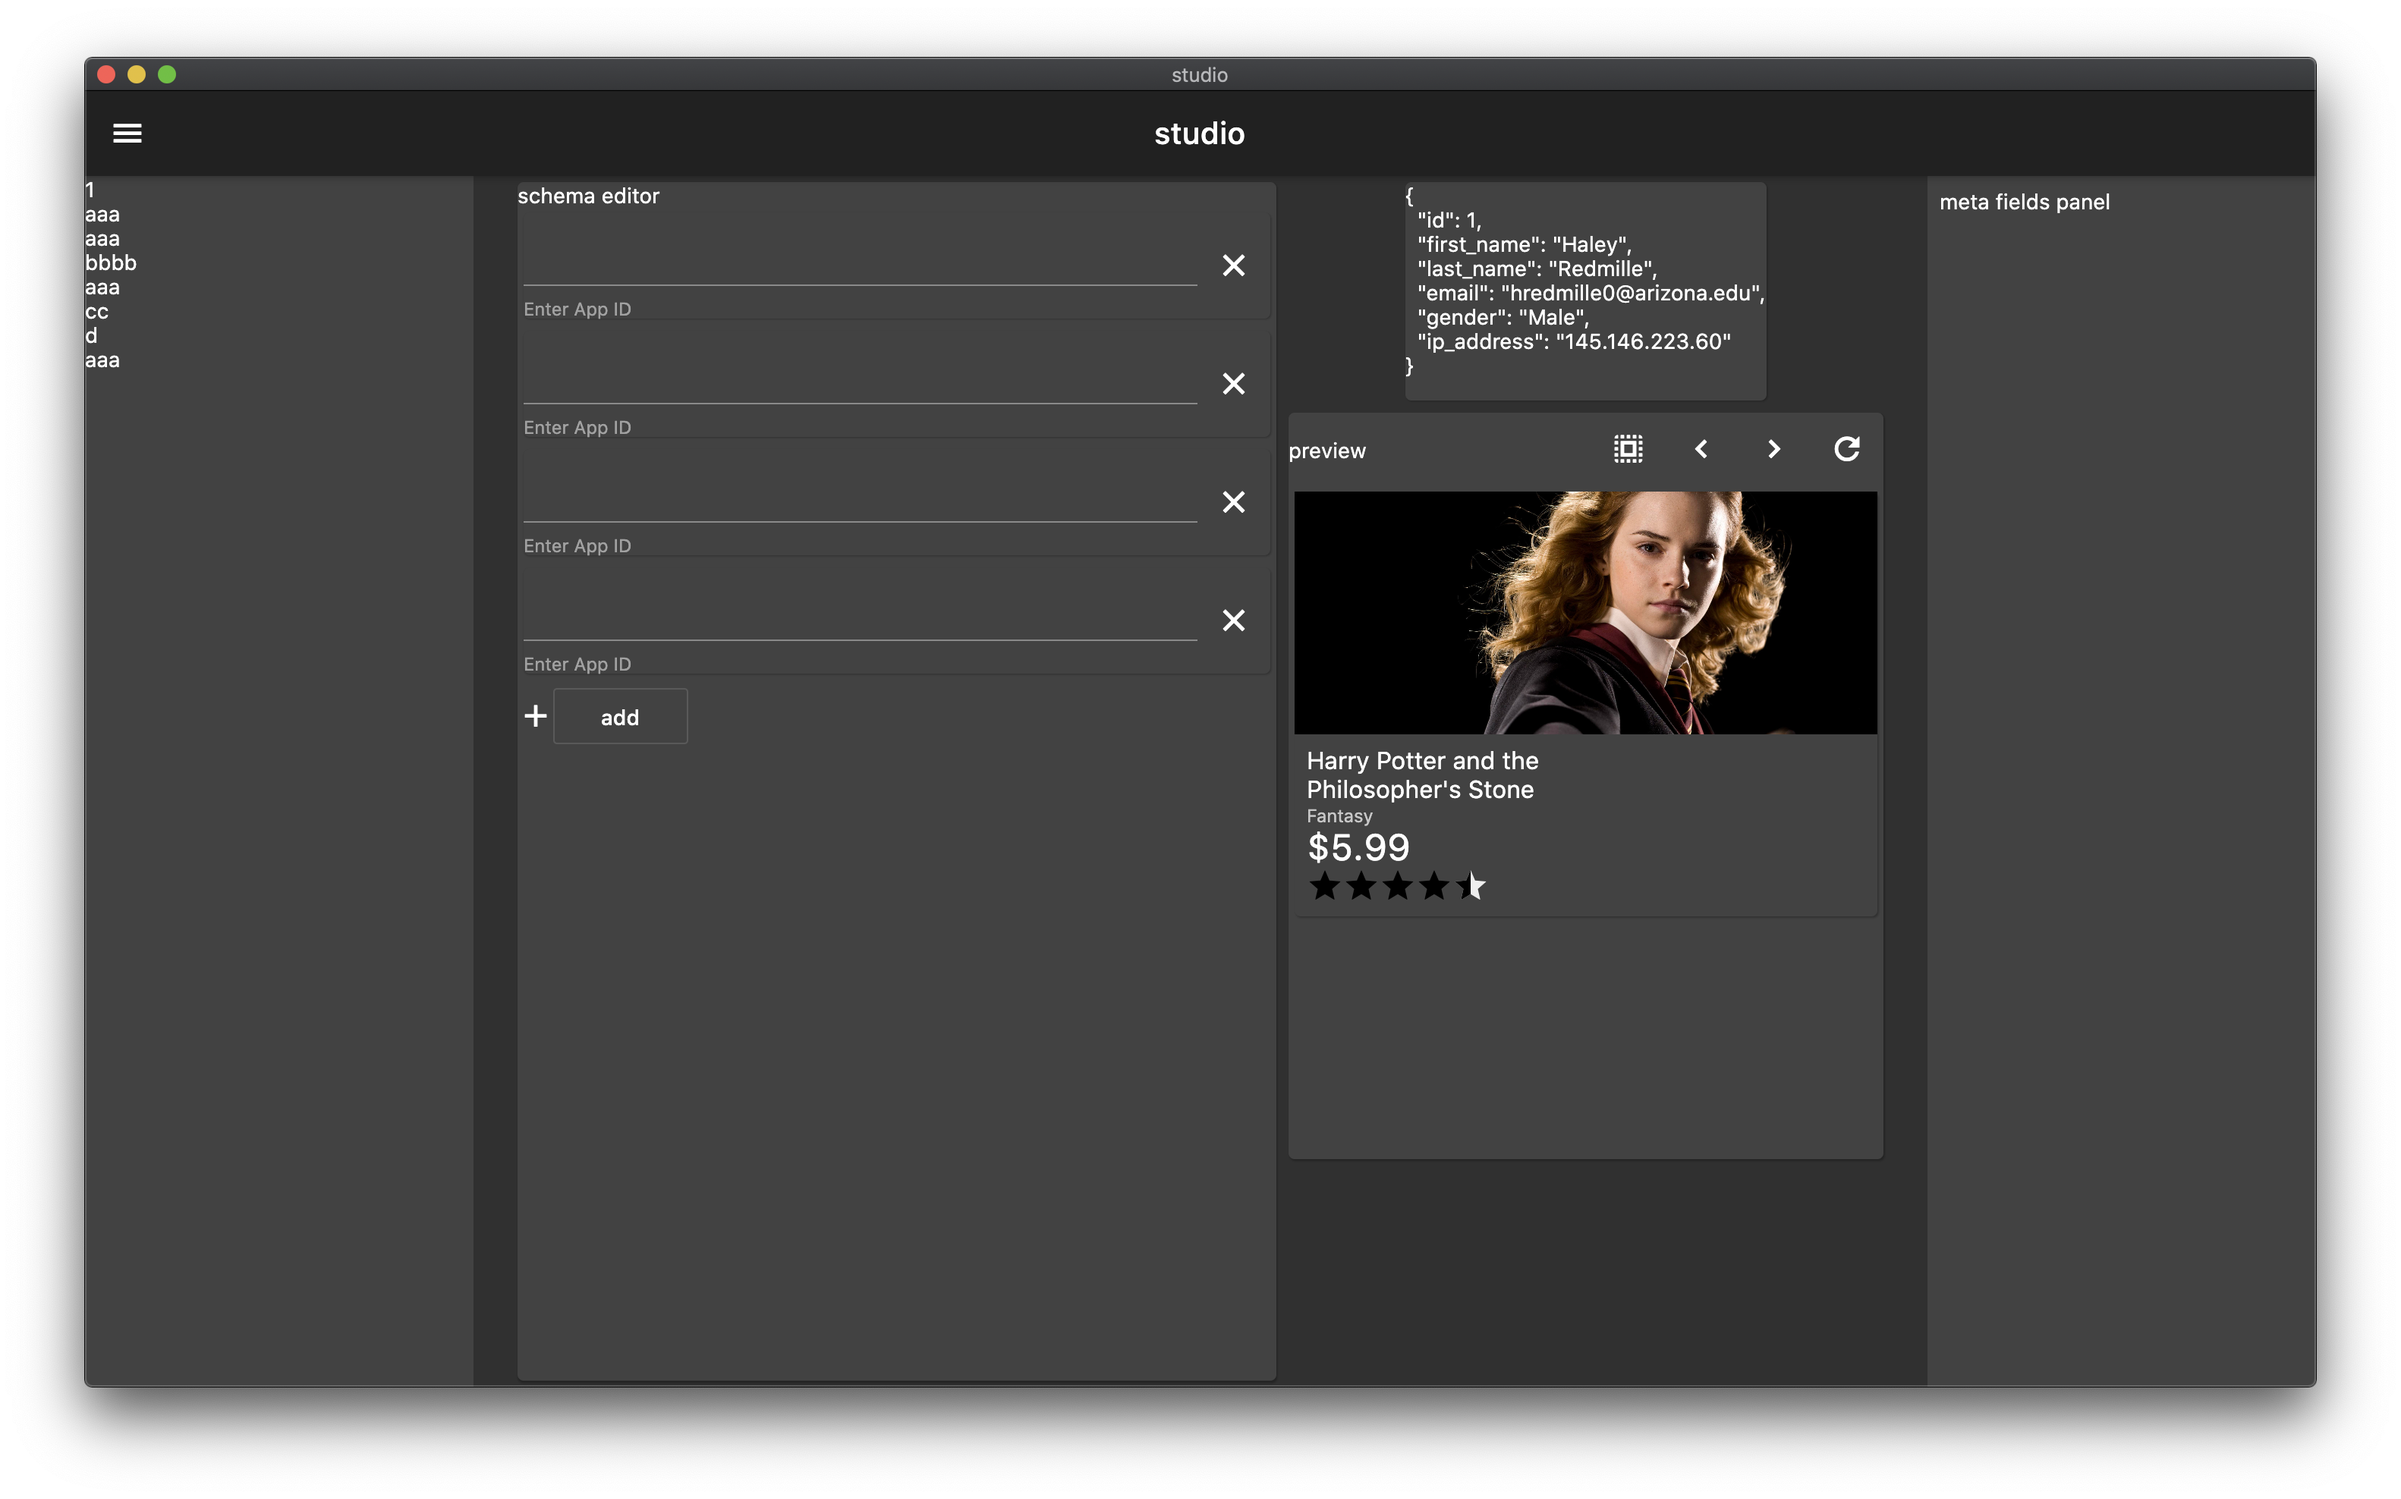
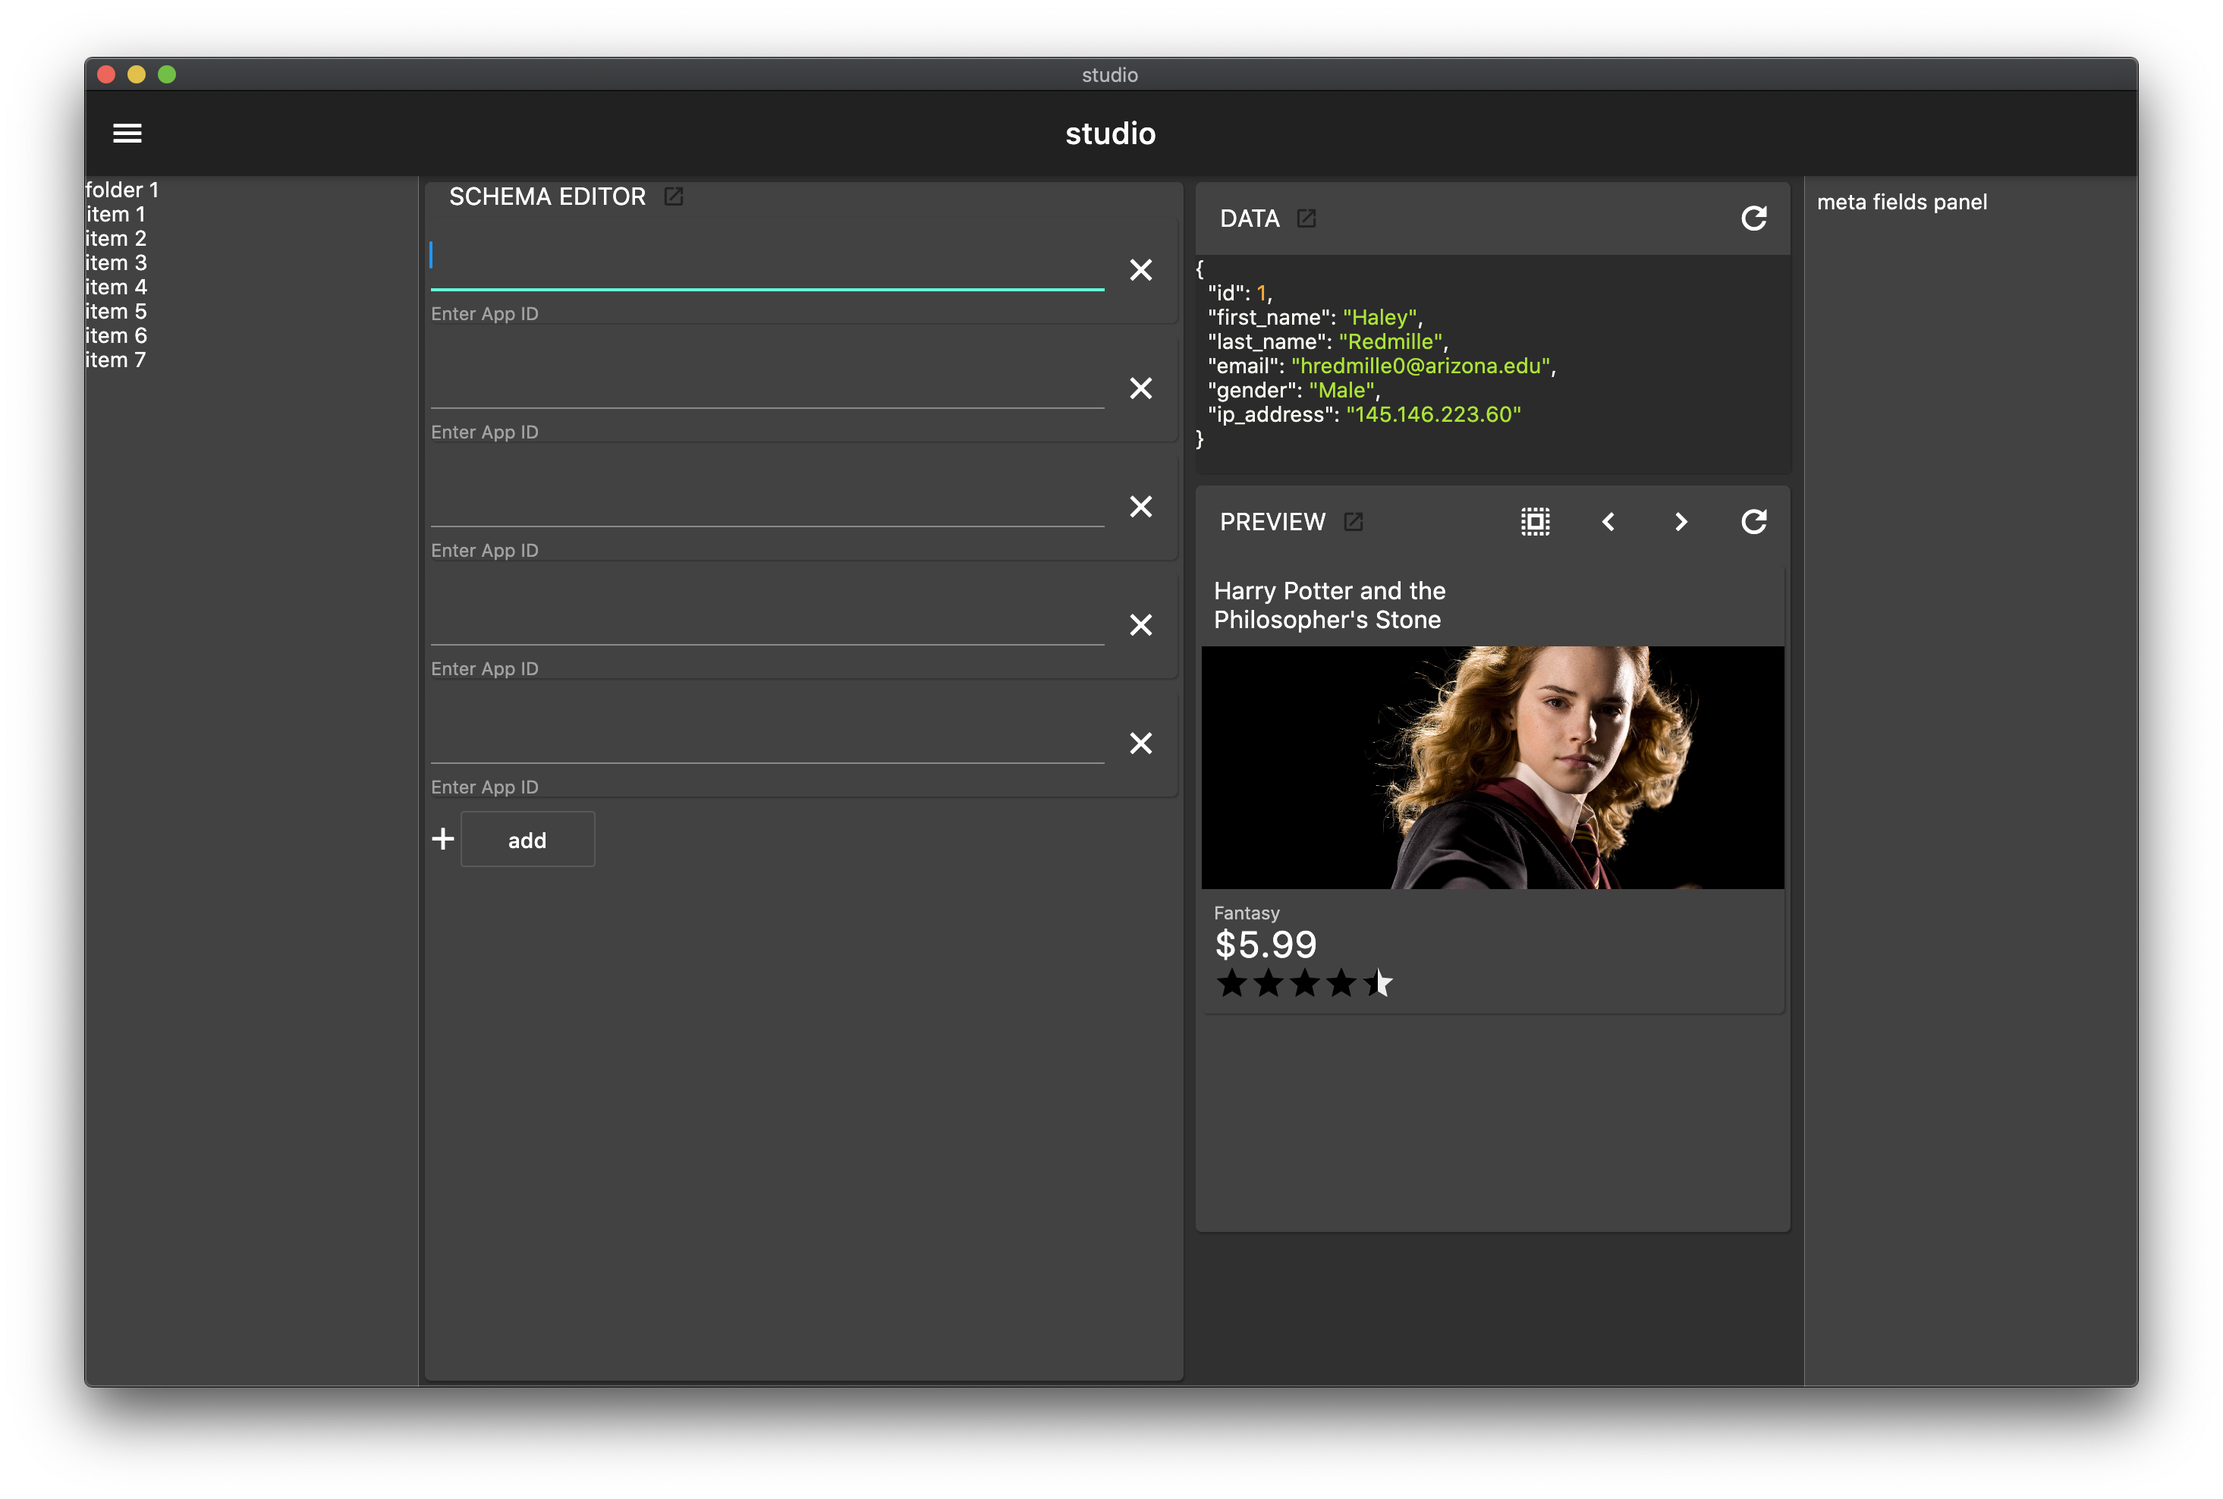
😇 added json viewer

diff --git a/lib/widgets/cards/layout_preview_card.dart b/lib/widgets/cards/layout_preview_card.dart
@@ -1,5 +1,7 @@
 import 'package:flutter/material.dart';
 import 'package:schema_studio/screens/stile_catalog_screen.dart';
+import 'package:schema_studio/utils/themes.dart';
+import 'package:schema_studio/widgets/cards/card_base.dart';
 import 'package:schema_studio/widgets/dummy/movie_card.dart';
 
 class LayoutPreviewCard extends StatefulWidget {
@@ -11,37 +13,35 @@ class _LayoutPreviewCardState extends State<LayoutPreviewCard> {
   @override
   Widget build(BuildContext context) {
     return Container(
-      width: 400,
+      width: CARD_DEFAULT_WIDTH,
       height: 500,
       child: buildBody(),
     );
   }
 
-  Widget buildCardActions() {
-    return Row(
-      children: [
-        IconButton(
-          icon: Icon(Icons.select_all),
-          onPressed: () {
-            Navigator.of(context).pushNamed(StileCatalogScreen.routeName);
-          },
-        ),
-        IconButton(
-          icon: Icon(Icons.navigate_before),
-          onPressed: () {},
-        ),
-        IconButton(
-          icon: Icon(Icons.navigate_next),
-          onPressed: () {},
-        ),
-        IconButton(
-          icon: Icon(Icons.refresh),
-          onPressed: () {
-            randomize();
-          },
-        ),
-      ],
-    );
+  List<Widget> buildCardActions() {
+    return [
+      IconButton(
+        icon: Icon(Icons.select_all),
+        onPressed: () {
+          Navigator.of(context).pushNamed(StileCatalogScreen.routeName);
+        },
+      ),
+      IconButton(
+        icon: Icon(Icons.navigate_before),
+        onPressed: () {},
+      ),
+      IconButton(
+        icon: Icon(Icons.navigate_next),
+        onPressed: () {},
+      ),
+      IconButton(
+        icon: Icon(Icons.refresh),
+        onPressed: () {
+          randomize();
+        },
+      ),
+    ];
   }
 
   MovieCardLayoutVariants layoutVariant = MovieCardLayoutVariants.Portrait1;
@@ -56,12 +56,9 @@ class _LayoutPreviewCardState extends State<LayoutPreviewCard> {
     return Card(
       child: Column(
         children: [
-          Row(
-            mainAxisAlignment: MainAxisAlignment.spaceBetween,
-            children: [
-              Text("preview"),
-              buildCardActions(),
-            ],
+          CardHeader(
+            title: "PREVIEW",
+            actions: buildCardActions(),
           ),
           buildContent(),
         ],

diff --git a/lib/widgets/cards/data_preview_card.dart b/lib/widgets/cards/data_preview_card.dart
@@ -1,4 +1,8 @@
 import 'package:flutter/material.dart';
+import 'package:flutter_highlight/flutter_highlight.dart';
+import 'package:flutter_highlight/theme_map.dart';
+import 'package:schema_studio/utils/themes.dart';
+import 'package:schema_studio/widgets/cards/card_base.dart';
 
 class DataPreviewCard extends StatefulWidget {
   @override
@@ -19,8 +23,39 @@ const dummyText = """
 class _DataPreviewCardState extends State<DataPreviewCard> {
   @override
   Widget build(BuildContext context) {
-    return Card(
-      child: Text(dummyText),
-    );
+    return Container(
+        width: CARD_DEFAULT_WIDTH,
+        child: Card(
+          child: Column(
+            children: [
+              CardHeader(
+                title: "DATA",
+                actions: [
+                  IconButton(
+                    icon: Icon(Icons.refresh),
+                    onPressed: () {
+                      setState(() {});
+                    },
+                  )
+                ],
+              ),
+              Container(
+                width: double.maxFinite,
+                child: JsonViewer(json: dummyText),
+              )
+            ],
+          ),
+        ));
+  }
+}
+
+class JsonViewer extends StatelessWidget {
+  final String json;
+
+  const JsonViewer({Key key, @required this.json}) : super(key: key);
+
+  @override
+  Widget build(BuildContext context) {
+    return HighlightView(json, language: "json", theme: themeMap["a11y-dark"]);
   }
 }

diff --git a/lib/widgets/cards/card_base.dart b/lib/widgets/cards/card_base.dart
@@ -1,0 +1,47 @@
+import 'package:flutter/material.dart';
+
+class CardHeader extends StatelessWidget {
+  final List<Widget> actions;
+  final String title;
+
+  const CardHeader({Key key, this.actions = const [], @required this.title})
+      : super(key: key);
+
+  @override
+  Widget build(BuildContext context) {
+    return Row(
+      mainAxisAlignment: MainAxisAlignment.spaceBetween,
+      children: [
+        Container(
+            padding: EdgeInsets.only(left: 16),
+            child: Row(
+              children: [
+                Text(
+                  title.toUpperCase(),
+                  style: Theme.of(context).textTheme.subtitle1,
+                ),
+                Padding(
+                  padding: EdgeInsets.only(left: 8),
+                  child: buildOpenNewWindowButton(context),
+                )
+              ],
+            )),
+        Row(
+          children: actions,
+        ),
+      ],
+    );
+  }
+
+  Widget buildOpenNewWindowButton(BuildContext context) {
+    return new SizedBox(
+        height: 18.0,
+        width: 18.0,
+        child: new IconButton(
+          padding: new EdgeInsets.all(0.0),
+          color: Theme.of(context).primaryColor,
+          icon: new Icon(Icons.open_in_new, size: 16.0),
+          onPressed: () {},
+        ));
+  }
+}

diff --git a/lib/widgets/panels/navigator_panel.dart b/lib/widgets/panels/navigator_panel.dart
@@ -1,6 +1,7 @@
 import 'package:flutter/material.dart';
 import 'package:schema_studio/utils/themes.dart';
 import 'package:schema_studio/utils/tree_view/tree_view.dart';
+import 'package:schema_studio/widgets/panels/panel_base.dart';
 
 class NavigatorPanel extends StatefulWidget {
   @override
@@ -10,9 +11,10 @@ class NavigatorPanel extends StatefulWidget {
 class _NavigatorPanelState extends State<NavigatorPanel> {
   @override
   Widget build(BuildContext context) {
-    return Container(
-      color: Theme.of(context).colorScheme.surface,
-      width: PANEL_DEFAULT_WIDTH,
+    return SidePanelBase(
+      border: Border(
+        right: PANEL_DEFAULT_BORDER_SIDE
+      ),
       child: TreeView(
           children: [
         TreeViewChild(

diff --git a/lib/widgets/panels/meta_panel.dart b/lib/widgets/panels/meta_panel.dart
@@ -1,5 +1,6 @@
 import 'package:flutter/material.dart';
 import 'package:schema_studio/utils/themes.dart';
+import 'package:schema_studio/widgets/panels/panel_base.dart';
 
 class MetaPanel extends StatefulWidget {
   @override
@@ -9,9 +10,10 @@ class MetaPanel extends StatefulWidget {
 class _MetaPanelState extends State<MetaPanel> {
   @override
   Widget build(BuildContext context) {
-    return Container(
-      color: Theme.of(context).colorScheme.surface,
-      width: PANEL_DEFAULT_WIDTH,
+    return SidePanelBase(
+      border: Border(
+          left: PANEL_DEFAULT_BORDER_SIDE
+      ),
       child: _buildBody(),
     );
   }

diff --git a/lib/widgets/panels/panel_base.dart b/lib/widgets/panels/panel_base.dart
@@ -1,0 +1,24 @@
+import 'package:flutter/material.dart';
+import 'package:schema_studio/utils/themes.dart';
+
+class SidePanelBase extends StatelessWidget {
+  final Widget child;
+  final BoxBorder border;
+
+  SidePanelBase(
+      {Key key, @required this.child, this.border})
+      : super(key: key);
+
+  @override
+  Widget build(BuildContext context) {
+    return Container(
+      decoration: BoxDecoration(
+        border: border,
+        color: Theme.of(context).colorScheme.surface,
+      ),
+      width: PANEL_DEFAULT_WIDTH,
+      height: double.maxFinite,
+      child: child,
+    );
+  }
+}

diff --git a/lib/widgets/cards/schema_editor_card.dart b/lib/widgets/cards/schema_editor_card.dart
@@ -1,4 +1,5 @@
 import 'package:flutter/material.dart';
+import 'package:schema_studio/widgets/cards/card_base.dart';
 import 'package:schema_studio/widgets/rows/schema_field_row.dart';
 
 import '../rows/schema_field_row.dart';
@@ -26,7 +27,7 @@ class _SchemaEditorCardState extends State<SchemaEditorCard> {
     return Column(
       crossAxisAlignment: CrossAxisAlignment.start,
       children: [
-        Text("schema editor"),
+        CardHeader(title: "schema editor"),
         ListView.builder(
           itemBuilder: (c, i) {
             final data = fields[i];

diff --git a/lib/utils/themes.dart b/lib/utils/themes.dart
@@ -4,3 +4,5 @@ import 'package:flutter/material.dart';
 
 const PANEL_DEFAULT_WIDTH = 220.0;
 const PANEL_DEFAULT_BACKGROUND_COLOR = Colors.grey;
+const PANEL_DEFAULT_BORDER_SIDE = BorderSide(width: 0.5, color: Color(0xdd7B7B7B));
+const CARD_DEFAULT_WIDTH = 400.0;

diff --git a/lib/screens/studio.dart b/lib/screens/studio.dart
@@ -41,7 +41,7 @@ class _StudioScreenState extends State<StudioScreen> {
   }
 
   Widget content() {
-    return Flexible(
+    return Expanded(
         child: SingleChildScrollView(
       scrollDirection: Axis.horizontal,
       child: Row(
